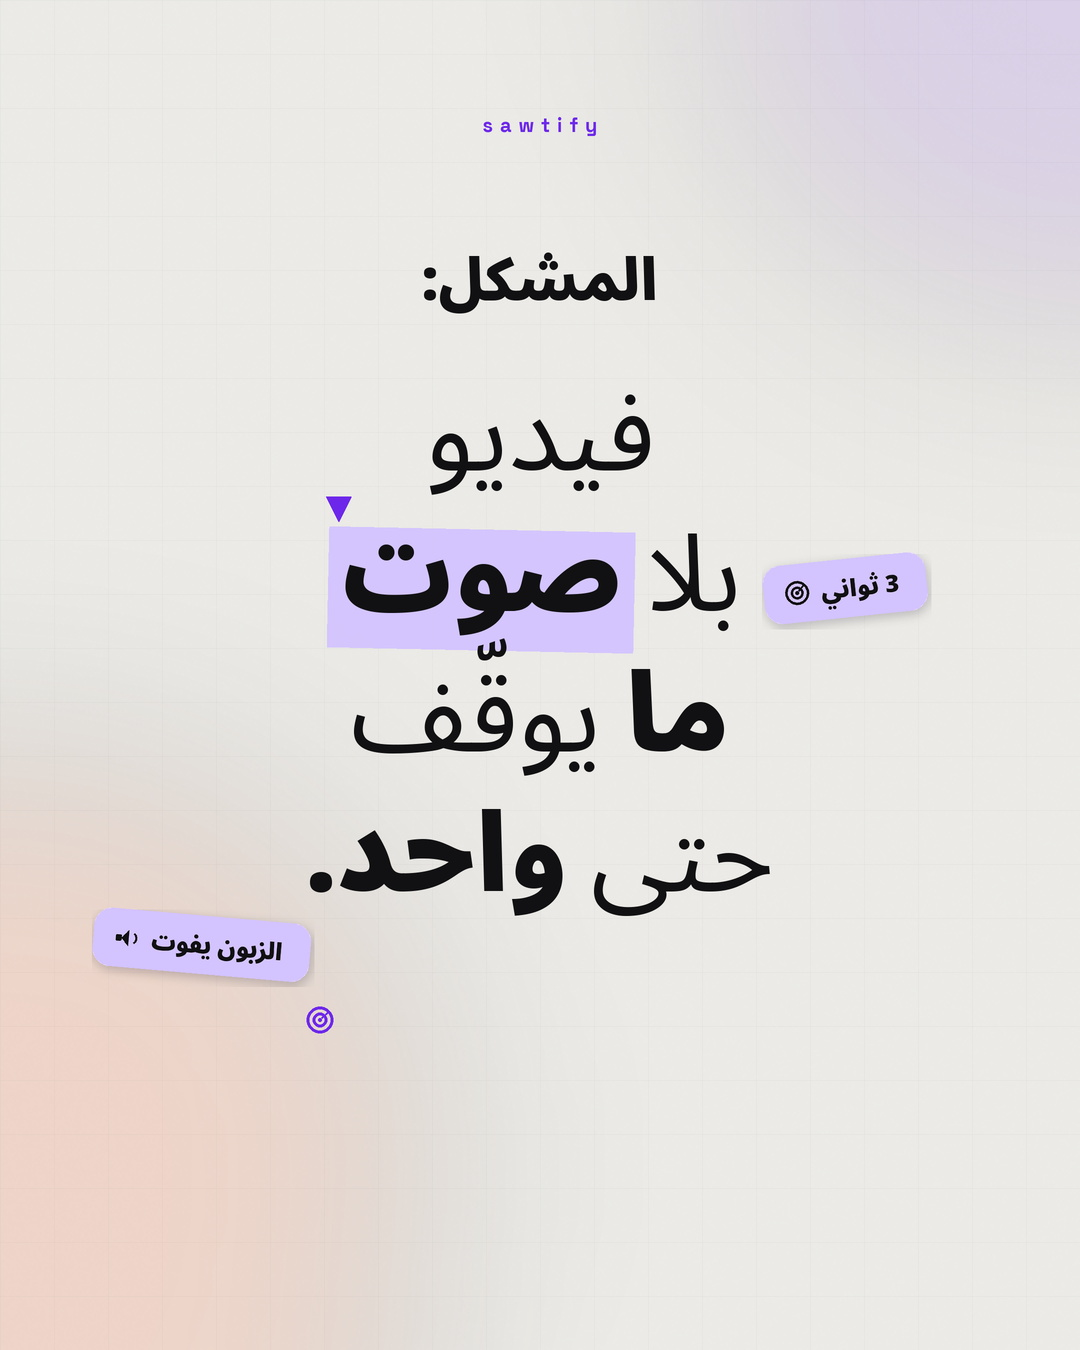
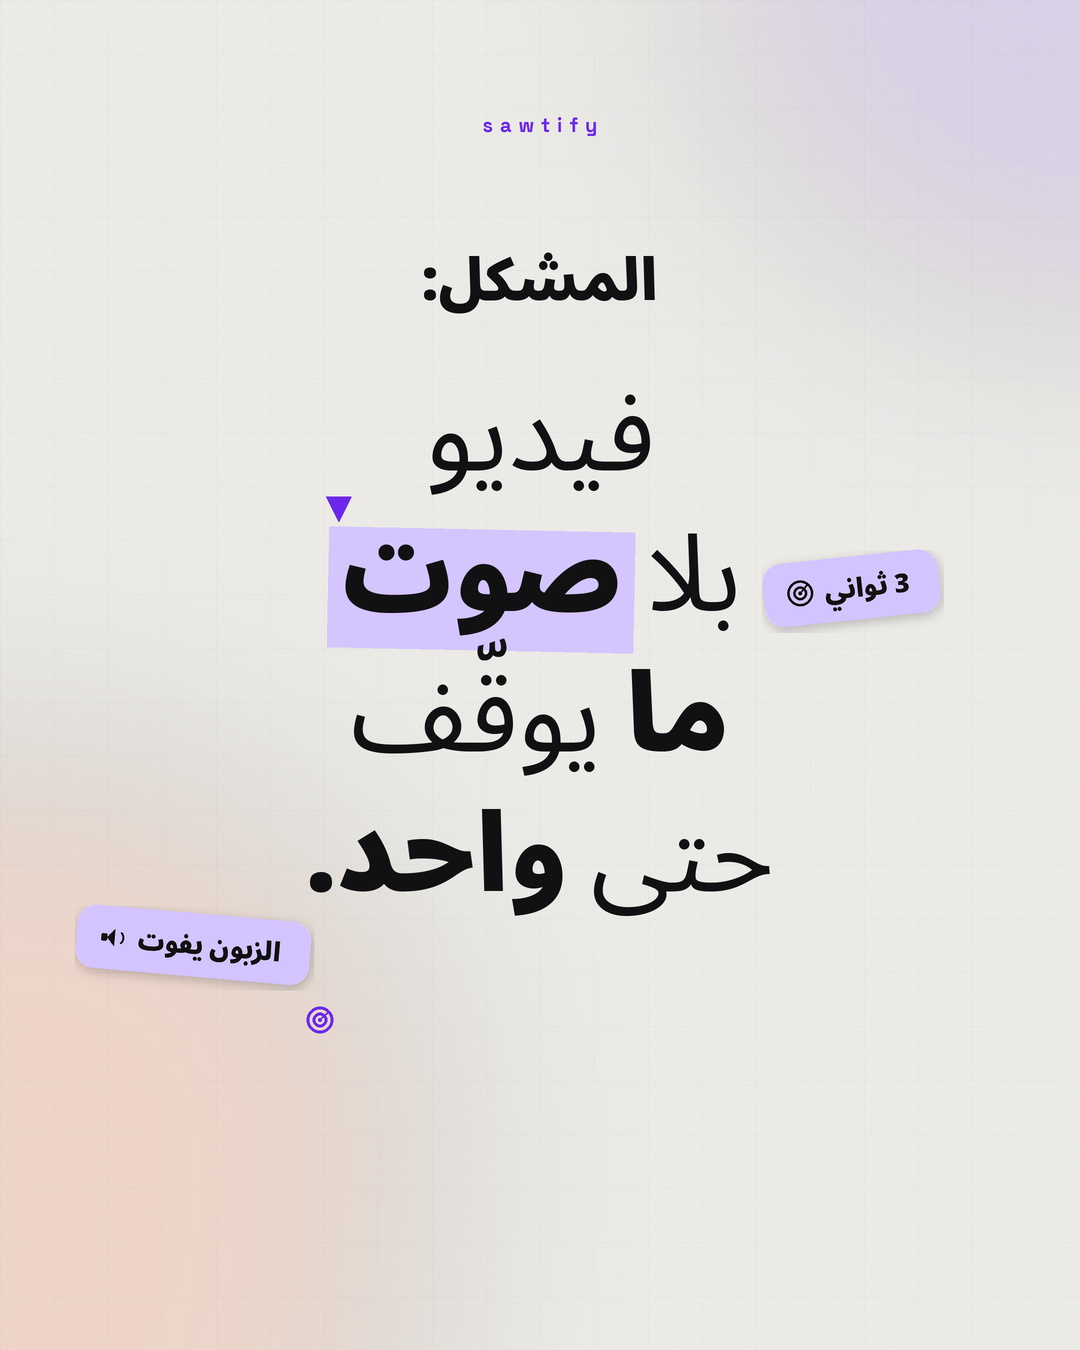
feat(lettre): surligneur mesure au pixel, pastilles 26 px, direction ltr pour le fr

Changed region(s): [[0.7028, 0.4044, 0.8861, 0.4667], [0.0611, 0.6533, 0.275, 0.7467]]

diff --git a/marketing/instagram/lettre.py b/marketing/instagram/lettre.py
@@ -246,12 +246,12 @@ def slide(spec, seed=3, rtl=True):
         idx = min(idx, len(geo) - 1)
         ly, lx0, lx1 = geo[idx]
         fnt = fonts["b"] if spec.get("fonts") else BLK
-        pw, ph = pill_size(it["t"], it.get("size", 24), it.get("icon", "target"), fnt)
+        pw, ph = pill_size(it["t"], it.get("size", 26), it.get("icon", "target"), fnt)
         dx = it.get("dx", 24)
         cx = (lx1 + dx + pw / 2) if side == "right" else (lx0 - dx - pw / 2)
         cx = min(max(cx, 40 + pw / 2), W - 40 - pw / 2)
         cy = ly + it.get("dy", -6)
-        pill(base, it["t"], cx, cy, it.get("rot", -6), it.get("size", 24),
+        pill(base, it["t"], cx, cy, it.get("rot", -6), it.get("size", 26),
              it.get("fill", VIO_SOFT), INK, it.get("icon", "target"), fnt)
     for d in spec.get("darts", ()):
         dart(base, d[0], d[1], d[2], VIO, d[3] if len(d) > 3 else 0)
@@ -267,7 +267,7 @@ DZ = {"id": "dz", "seed": 3, "slides": [
                 [("حتى", "r", None), ("التسليم.", "b", None)]],
          pills=[dict(t="دارجة بلادنا", anchor=(1, "right"), dx=26, dy=-26,
                      rot=6, icon="target"),
-                dict(t="500 دج · 30 ثانية", anchor=(0, "right"), dx=10, dy=52,
+                dict(t="500 دج · 30 ثانية", anchor=(0, "right"), dx=-4, dy=56,
                      rot=-4, icon="sound"),
                 dict(t="تسليم 24 ساعة", anchor=(4, "left"), dx=-6, dy=62,
                      rot=5, icon="spark")],
@@ -316,9 +316,9 @@ FR = {"id": "fr", "seed": 23, "rtl": False, "fonts": WEIGHT_LAT, "slides": [
                 [("des", "r", None), ("voix", "b", "mark"), ("qui", "r", None)],
                 [("vendent,", "b", None)],
                 [("en", "r", None), ("darija.", "b", None)]],
-         pills=[dict(t="500 DA · 30 sec", anchor=(0, "right"), dx=8, dy=44,
+         pills=[dict(t="500 DA · 30 sec", anchor=(0, "right"), dx=14, dy=42,
                      rot=7, icon="sound"),
-                dict(t="livré en 24 h", anchor=(3, "right"), dx=-2, dy=48,
+                dict(t="livré en 24 h", anchor=(3, "left"), dx=16, dy=44,
                      rot=-4, icon="spark")],
          darts=[(596, 1092, 26)]),
     dict(kicker="Le problème :",
@@ -335,7 +335,7 @@ FR = {"id": "fr", "seed": 23, "rtl": False, "fonts": WEIGHT_LAT, "slides": [
                 [("choisissez", "b", "mark")],
                 [("la", "r", None), ("voix.", "b", None)],
                 [("24 h.", "r", None)]],
-         pills=[dict(t="darja algérienne", anchor=(2, "left"), dx=-2, dy=46, rot=-6,
+         pills=[dict(t="darja algérienne", anchor=(0, "left"), dx=18, dy=44, rot=-6,
                      icon="target")],
          darts=[(596, 1080, 26)]),
     dict(kicker="L’écart :",
@@ -343,7 +343,7 @@ FR = {"id": "fr", "seed": 23, "rtl": False, "fonts": WEIGHT_LAT, "slides": [
                 [("chez", "r", None), ("nous,", "b", None)],
                 [("21", "b", None), ("jours", "r", None)],
                 [("en", "r", None), ("studio.", "b", None)]],
-         pills=[dict(t="sans attendre", anchor=(2, "right"), dx=18, dy=-58, rot=-6,
+         pills=[dict(t="sans attendre", anchor=(2, "right"), dx=16, dy=-54, rot=-6,
                      icon="target")],
          darts=[(340, 1030, 28)]),
     dict(kicker="Et après ?",
